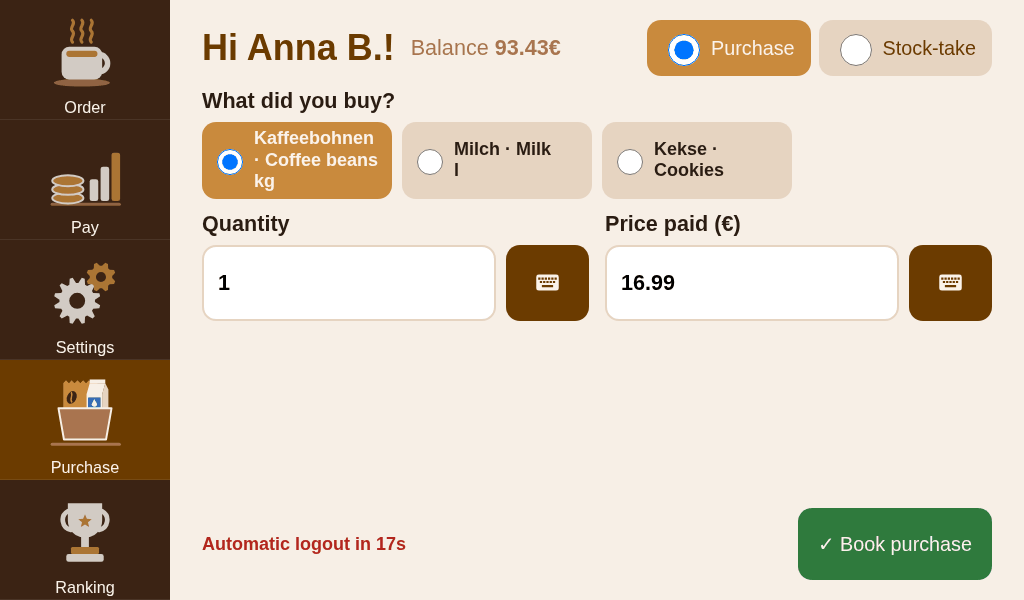
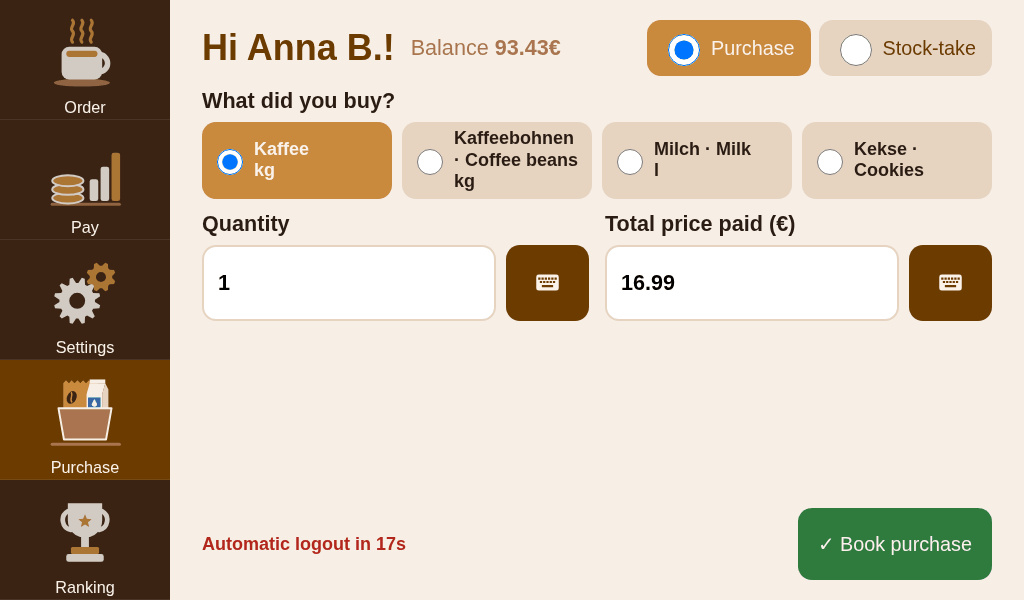
feat: update purchase process terminology and documentation for clarity

diff --git a/kiosk/templates/kiosk/panel.html b/kiosk/templates/kiosk/panel.html
@@ -31,7 +31,7 @@ instead of restarting it every second. Hence the clock is filled in by clock.js,
                 <li>{% blocktranslate trimmed with seconds=logout_seconds %}You are logged out after {{ seconds }} seconds.{% endblocktranslate %}</li>
                 {% elif wait_mode == "purchase" %}
                 <li>{% translate "Pick what you bought for everyone - coffee, milk, cookies." %}</li>
-                <li>{% translate "Enter the quantity and the price you paid: it is credited to your balance." %}</li>
+                <li>{% translate "Enter the quantity and what you paid for all of it: that is credited to your balance." %}</li>
                 <li>{% blocktranslate trimmed with seconds=logout_seconds %}You are logged out after {{ seconds }} seconds.{% endblocktranslate %}</li>
                 {% elif wait_mode == "settings" %}
                 <li>{% translate "Change your name and your favourite coffee." %}</li>
@@ -312,7 +312,7 @@ what is saved.
                             </div>
                         </label>
                         <label class="field">
-                            {% translate "Price paid (€)" %}
+                            {% translate "Total price paid (€)" %}
                             <div class="field-with-osk">
                                 <input type="text" inputmode="decimal" name="price" value="" id="purchase-price-input">
                                 <button type="button" class="btn osk-open-btn" data-osk-for="purchase-price-input" data-osk-numeric>{% include "icons/keyboard.svg" %}</button>

diff --git a/portal/templates/portal/purchase.html b/portal/templates/portal/purchase.html
@@ -13,7 +13,7 @@
 <div class="card">
     <h2>{% translate "Book a purchase" %}</h2>
     {% if items %}
-    <p class="muted">{% translate "Bought something for everyone? The price you paid is credited to your balance." %}</p>
+    <p class="muted">{% translate "Bought something for everyone? What you paid for all of it is credited to your balance." %}</p>
     <form method="post">
         {% csrf_token %}
         <input type="hidden" name="form" value="purchase">
@@ -31,9 +31,9 @@
             <input type="text" inputmode="decimal" name="quantity" value="1" required>
         </label>
         <label class="field">
-            {% translate "Price paid (€)" %}
+            {% translate "Total price paid (€)" %}
             {% comment %}Text, not type=number: that only takes a dot, and a German "4,99" would leave it empty.{% endcomment %}
-            <input type="text" inputmode="decimal" name="price" placeholder="0,00" required>
+            <input type="text" inputmode="decimal" name="price" required>
         </label>
         <div class="action-row">
             <button type="submit" class="success btn-block">{% translate "Book purchase" %}</button>

diff --git a/dashboard/forms.py b/dashboard/forms.py
@@ -475,7 +475,7 @@ class PurchaseForm(forms.ModelForm):
             "member": gettext_lazy("Paid by"),
             "item": gettext_lazy("Item"),
             "quantity": gettext_lazy("Quantity"),
-            "price": gettext_lazy("Price paid (€)"),
+            "price": gettext_lazy("Total price paid (€)"),
             "created_at": gettext_lazy("Date and time"),
             "info": gettext_lazy("Note"),
         }

diff --git a/README.md b/README.md
@@ -27,6 +27,14 @@ works completely offline, and everyone checks their own balance on their phone.
     <td align="center"><em>A dashboard for whoever buys the beans</em></td>
     <td align="center"><em>Pay by cash, PayPal or a QR code with the amount filled in</em></td>
   </tr>
+  <tr>
+    <td><img src="docs/pictures/manual/en/kiosk-purchase.png" alt="Booking a purchase on the kiosk"></td>
+    <td><img src="docs/pictures/manual/en/dashboard-inventory-spending.png" alt="Spending per month and item"></td>
+  </tr>
+  <tr>
+    <td align="center"><em>Bought the beans? Book them and settle up in kind</em></td>
+    <td align="center"><em>What the coffee corner really costs, month by month</em></td>
+  </tr>
 </table>
 
 ## Why CoffeePy
@@ -44,6 +52,19 @@ works completely offline, and everyone checks their own balance on their phone.
   those who owe, and thank-you animations that notice when it's your fifth cup today. Both
   boards are off by default - a workplace decision, not a software one.
 
+### Beans, milk and what a cup really costs
+- **Settle up in kind.** Whoever buys beans, milk or cookies for everyone books it at the kiosk
+  or on their phone, and the price is credited to their balance - no cash changes hands, no
+  receipts to reimburse. Rather keep it with one person? Then purchases are entered in the
+  dashboard only, paid by a member or straight from the coffee box.
+- **Know what's on the shelf.** The stock is the last stock-take plus everything bought since;
+  the members you pick count the shelf right at the kiosk.
+- **A price that follows the real cost.** Spending per month and item, what a cup has really
+  cost - from purchases and stock-takes -, whether the coffee box pays for itself, and a price
+  suggestion per coffee sort. Bean prices go up, the suggestion follows; changing the price stays
+  a person's decision.
+- **Optional, like the boards.** Off on a new device, switched on in the dashboard.
+
 ### On your phone
 - **Scan a QR code on the kiosk once** and your phone stays linked for six months - balance,
   payments, your cards and how your coffee habits compare with everyone else's.
@@ -52,7 +73,8 @@ works completely offline, and everyone checks their own balance on their phone.
 
 ### For whoever runs it
 - **A dashboard for a phone or a PC:** members, corrections, coffee sorts and prices,
-  payment methods, statistics, a pillory that adds up what is open, CSV exports.
+  payment methods, statistics, a pillory that adds up what is open, CSV exports - and, if you
+  want it, the inventory with its spending and cost per cup.
 - **Everything is logged.** Every change - on the kiosk, the phone or the dashboard - writes an
   audit entry with who, what and from where.
 - **Two roles:** admins for everything, managers for the day-to-day bookkeeping. Login rules,

diff --git a/docs/MANUAL.en.md b/docs/MANUAL.en.md
@@ -393,10 +393,11 @@ coffee beans, milk, cookies – books it here and is credited the price they pai
 
 ![Purchase – apply your card](pictures/manual/en/kiosk-wait-purchase.png)
 
-After holding up your card, tap what you bought, enter the **Quantity** and the **Price paid (€)**
-– directly or with the on-screen keyboard next to the field – and tap **Book purchase**. The kiosk
-confirms what was booked, with your new balance. The choice is what the admin has entered as
-bookable under **Inventory** → *Items*. A new card, or a name that doesn't fit the rules, is asked
+After holding up your card, tap what you bought, enter the **Quantity** and the
+**Total price paid (€)** – directly or with the on-screen keyboard next to the field – and tap
+**Book purchase**. The total is what you paid for all of it, not the price per unit: two packs of
+milk at €1.20 each are quantity 2 and €2.40. The kiosk confirms what was booked, with your new
+balance. The choice is what the admin has entered as bookable under **Inventory** → *Items*. A new card, or a name that doesn't fit the rules, is asked
 for a name first; after saving it goes straight on to the purchase.
 
 ![Purchase](pictures/manual/en/kiosk-purchase.png)
@@ -475,8 +476,8 @@ something about you, an admin say, appear by their role only) – and the device
 
 ![Portal stats](pictures/manual/en/portal-stats.png)
 
-**Purchase** – only when members book purchases themselves: enter the item, quantity and price
-paid, **Book purchase**, and the price is credited to you; below, your recent purchases. Members
+**Purchase** – only when members book purchases themselves: enter the item, quantity and total
+price paid, **Book purchase**, and the price is credited to you; below, your recent purchases. Members
 who may take stock also enter the counted quantities here, under **Stock-take**.
 
 ![Portal purchase](pictures/manual/en/portal-purchase.png)

diff --git a/docs/MANUAL.de.md b/docs/MANUAL.de.md
@@ -418,9 +418,11 @@ eine Zahlung.
 
 ![Einkauf – Karte auflegen](pictures/manual/de/kiosk-wait-purchase.png)
 
-Nach dem Auflegen tippst du an, was du gekauft hast, trägst **Menge** und **Bezahlter Preis (€)**
-ein – direkt oder über die Bildschirmtastatur neben dem Feld – und tippst **Einkauf buchen**. Der
-Kiosk bestätigt, was gebucht wurde, mit dem neuen Kontostand. Zur Auswahl steht, was der Admin
+Nach dem Auflegen tippst du an, was du gekauft hast, trägst **Menge** und
+**Bezahlter Gesamtpreis (€)** ein – direkt oder über die Bildschirmtastatur neben dem Feld – und
+tippst **Einkauf buchen**. Der Gesamtpreis ist, was du für alles zusammen bezahlt hast, nicht der
+Preis pro Einheit: zwei Packungen Milch zu je 1,20 € sind Menge 2 und 2,40 €. Der Kiosk bestätigt,
+was gebucht wurde, mit dem neuen Kontostand. Zur Auswahl steht, was der Admin
 unter **Inventar** → *Artikel* als buchbar eingetragen hat. Eine neue Karte oder ein Name, der
 nicht zu den Regeln passt, wird zuerst nach dem Namen gefragt; nach dem Speichern geht es direkt
 zum Einkauf.
@@ -507,8 +509,8 @@ die du schon gemacht hast.
 
 ![Portal Statistik](pictures/manual/de/portal-stats.png)
 
-**Einkauf** – nur, wenn Mitglieder Einkäufe selbst buchen: Artikel, Menge und bezahlten Preis
-eintragen, **Einkauf buchen**, und der Preis wird dir gutgeschrieben; darunter deine letzten
+**Einkauf** – nur, wenn Mitglieder Einkäufe selbst buchen: Artikel, Menge und bezahlten
+Gesamtpreis eintragen, **Einkauf buchen**, und der Preis wird dir gutgeschrieben; darunter deine letzten
 Einkäufe. Wer Inventur machen darf, trägt hier unter **Inventur** auch die gezählten Mengen ein.
 
 ![Portal Einkauf](pictures/manual/de/portal-purchase.png)

diff --git a/docs/MEMBERS.en.md b/docs/MEMBERS.en.md
@@ -33,7 +33,7 @@ and pay with your phone. **No coffee is ever booked here.**
 
 If there is a **Purchase** on the left, that is where you book what you bought for everyone –
 coffee, milk, cookies: tap **Purchase**, hold up your card, tap the item, enter the quantity and
-the price you paid, **Book purchase**. The price is credited to you, like a payment. In the portal
+what you paid for all of it, **Book purchase**. The price is credited to you, like a payment. In the portal
 it's under **Purchase**.
 
 ## Settings and your phone

diff --git a/docs/MEMBERS.de.md b/docs/MEMBERS.de.md
@@ -33,7 +33,7 @@ oder scanne den QR-Code und zahl mit dem Handy. **Hier wird nie ein Kaffee gebuc
 ## Etwas für alle gekauft
 
 Steht links **Einkauf**, buchst du dort, was du für alle gekauft hast – Kaffee, Milch, Kekse:
-**Einkauf** antippen, Karte auflegen, Artikel antippen, Menge und bezahlten Preis eintragen,
+**Einkauf** antippen, Karte auflegen, Artikel antippen, Menge und bezahlten Gesamtpreis eintragen,
 **Einkauf buchen**. Der Preis wird dir gutgeschrieben, wie eine Zahlung. Im Portal geht das unter
 **Einkauf**.
 
